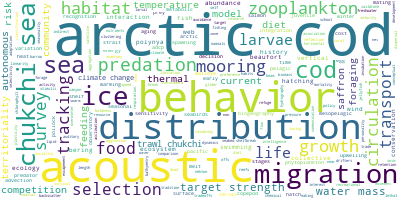
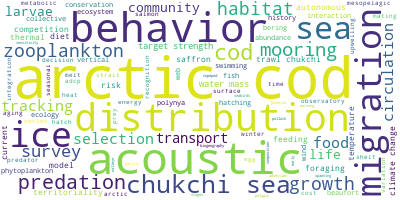
Neely and name change

diff --git a/README.md b/README.md
@@ -261,17 +261,19 @@ Notes (author, year, journal in file header) on readings.  Top of each note docu
 * [Stroeve2014GRL - Changes in Arctic melt season and implications for sea ice loss](https://github.com/leviner/ReadingList/tree/master/papers/pacificArctic/ice/Stroeve2014GRL.md) 
      * Analysis of changes in melt and freeze timing of the artcic and implications for heat storage and SST due to albedo effects.  Contains a table of melt and freeze onset by region. 
 
-### zooplankton 
+### plankton 
  
-* [Ashjian2017DSRII - Mesozooplankton abundance and distribution in association with hydrography on Hanna Shoal, NE Chukchi Sea, during August 2012 and 2013](https://github.com/leviner/ReadingList/tree/master/papers/pacificArctic/zooplankton/Ashjian2017DSRII.md) 
+* [Ashjian2017DSRII - Mesozooplankton abundance and distribution in association with hydrography on Hanna Shoal, NE Chukchi Sea, during August 2012 and 2013](https://github.com/leviner/ReadingList/tree/master/papers/pacificArctic/plankton/Ashjian2017DSRII.md) 
      * Description of the late-summer zooplankton community composition at Hannah Shoal during August of 2012 and 2013, focusing on copepods and euphausiids of interest for bowhead whales. 
-* [Darnis2019PO - Could offspring predation offset the successful reproduction of the arctic copepod Calanus hyperboreus under reduced sea-ice cover conditions?](https://github.com/leviner/ReadingList/tree/master/papers/pacificArctic/zooplankton/Darnis2019PO.md) 
+* [Darnis2019PO - Could offspring predation offset the successful reproduction of the arctic copepod Calanus hyperboreus under reduced sea-ice cover conditions?](https://github.com/leviner/ReadingList/tree/master/papers/pacificArctic/plankton/Darnis2019PO.md) 
      * Year-round observations of C. hyperboreus growth and reproduction in the Canadian Beaufort Sea.  Hypothesize top-down control of the C. hyperboreus population by other omnivore species (M. longa, C. glacialis), increased by extended ice-free periods. 
-* [Day2013CSR - The offshore northeastern Chukchi Sea, Alaska: A complex high-latitude ecosystem](https://github.com/leviner/ReadingList/tree/master/papers/pacificArctic/zooplankton/Day2013CSR.md) 
+* [Day2013CSR - The offshore northeastern Chukchi Sea, Alaska: A complex high-latitude ecosystem](https://github.com/leviner/ReadingList/tree/master/papers/pacificArctic/plankton/Day2013CSR.md) 
      * Synthesis of the findings from the Chukchi Sea Environmental Studies Program from 2008-2010 at three regions of oil exploration interest near Hanna Shoal. 
-* [Ershova2015PB - Inter-annual variability of summer mesozooplankton communities of the western Chukchi Sea: 2004–2012](https://github.com/leviner/ReadingList/tree/master/papers/pacificArctic/zooplankton/Ershova2015PB.md) 
+* [Ershova2015PB - Inter-annual variability of summer mesozooplankton communities of the western Chukchi Sea: 2004–2012](https://github.com/leviner/ReadingList/tree/master/papers/pacificArctic/plankton/Ershova2015PB.md) 
      * Description of the zooplankton community in relation to water masses during 4 years of the RUSALCA survey program.  Community structure strongly correlated with bottom temperature. 
-* [Kitamura2017CSR - Seasonal dynamics of zooplankton in the southern Chukchi Sea revealed from acoustic backscattering strength](https://github.com/leviner/ReadingList/tree/master/papers/pacificArctic/zooplankton/Kitamura2017CSR.md) 
+* [Kitamura2017CSR - Seasonal dynamics of zooplankton in the southern Chukchi Sea revealed from acoustic backscattering strength](https://github.com/leviner/ReadingList/tree/master/papers/pacificArctic/plankton/Kitamura2017CSR.md) 
      * Use of AZFPs to describe the seasonality of zooplankton biomass, and identify the dominant scatterers in the southern Chukchi Sea, finding a seasonal peak in biomass in autumn and a minimum in early spring, not corresponnding with phytoplankton production.  Zooplpankton communities in the southern Chukchi are largely driven by advection from the Bering. 
-* [PinchukEisner2017DSRII - Spatial heterogeneity in zooplankton summer distribution in the eastern Chukchi Sea in 2012–2013 as a result of large-scale interactions of water masses](https://github.com/leviner/ReadingList/tree/master/papers/pacificArctic/zooplankton/PinchukEisner2017DSRII.md) 
+* [Neely2018GRL - Unraveling Phytoplankton Community Dynamics in the Northern Chukchi Sea Under Sea-Ice-Covered and Sea-Ice-Free Conditions](https://github.com/leviner/ReadingList/tree/master/papers/pacificArctic/plankton/Neely2018GRL.md) 
+     * Multivariate classification of phytoplankton groups in association with ice and ice-free conditions in the N. Chukchi sea, showing clear variability as a function of depth and ice presence during the ICESCAPE program. 
+* [PinchukEisner2017DSRII - Spatial heterogeneity in zooplankton summer distribution in the eastern Chukchi Sea in 2012–2013 as a result of large-scale interactions of water masses](https://github.com/leviner/ReadingList/tree/master/papers/pacificArctic/plankton/PinchukEisner2017DSRII.md) 
      * Describe the differences in zooplankton distribution (focussed on Calanus species of copepods) between 2012 and 2013 as part of the Arctic EIS study.  Zooplankton distribution is wind-driven and a balance between melt water and northward advection of warm Pacific water. 

diff --git a/papers/pacificArctic/plankton/Neely2018GRL.md b/papers/pacificArctic/plankton/Neely2018GRL.md
@@ -1,0 +1,24 @@
+11/30/19
+## Authors:
+Neeley, A. and Harris, L. and Frey, K.
+## Title:
+Unraveling Phytoplankton Community Dynamics in the Northern Chukchi Sea Under Sea-Ice-Covered and Sea-Ice-Free Conditions
+## Keywords:
+phytoplankton, composition, community, carbon, sea ice
+## Geographic Coverage
+Chukchi Sea
+## Field Dates:
+05/01/2011 - 10/01/2011
+## Significance:
+Multivariate classification of phytoplankton groups in association with ice and ice-free conditions in the N. Chukchi sea, showing clear variability as a function of depth and ice presence during the ICESCAPE program.
+
+## Notes:
+Mixing, or lack thereof, under sea ice can structure the phytoplankton community by creating favorable conditions for different species. It's necessary to understand the mechanisms that drive the relationship between environment and community composition in both ice and ice-free periods.
+
+We expect smaller phytoplankton to dominate in calm, low-nutrient conditions, while larger phytoplankton succeed in turbulent conditions that provide higher nutrient concentrations. Here, they use data from the ICESCAPE program in summer 2011 to compare communities and environmental drivers in ice and ice-free conditions.
+
+CTD samples collected at 10, 25, 50, 100, 150, and 200 m depths when available, using flowcytobot counts for taxonomy.
+
+Phytoplankton clustered into 4 groups and considered in a CCA against environmental conditions: rare, ice-bloomers (found in the presence of sea ice and high Si), spring bloom/high carbon (SCM, high DIN and P), and oligotrophic phtyoplankton (warm, ice-free waters).
+
+PCA shows division along shallow/deep samples and ice/no ice.  Based on trajectory of warming in the PAR, they expect the oligotrophic group to expand in presence. Confirmed that phytoplankton community structure is driven by a function of stratification, nutrients and light.
